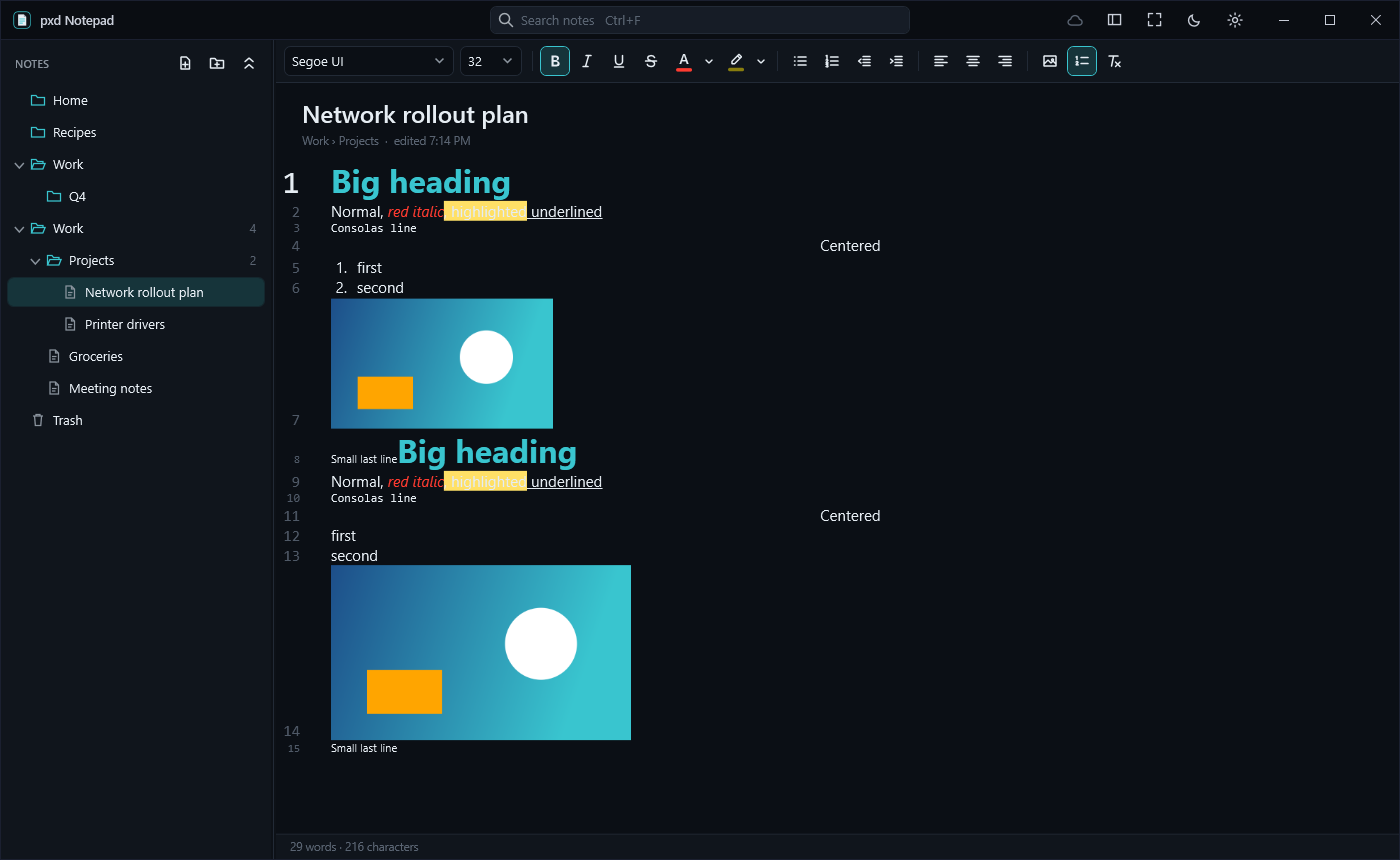
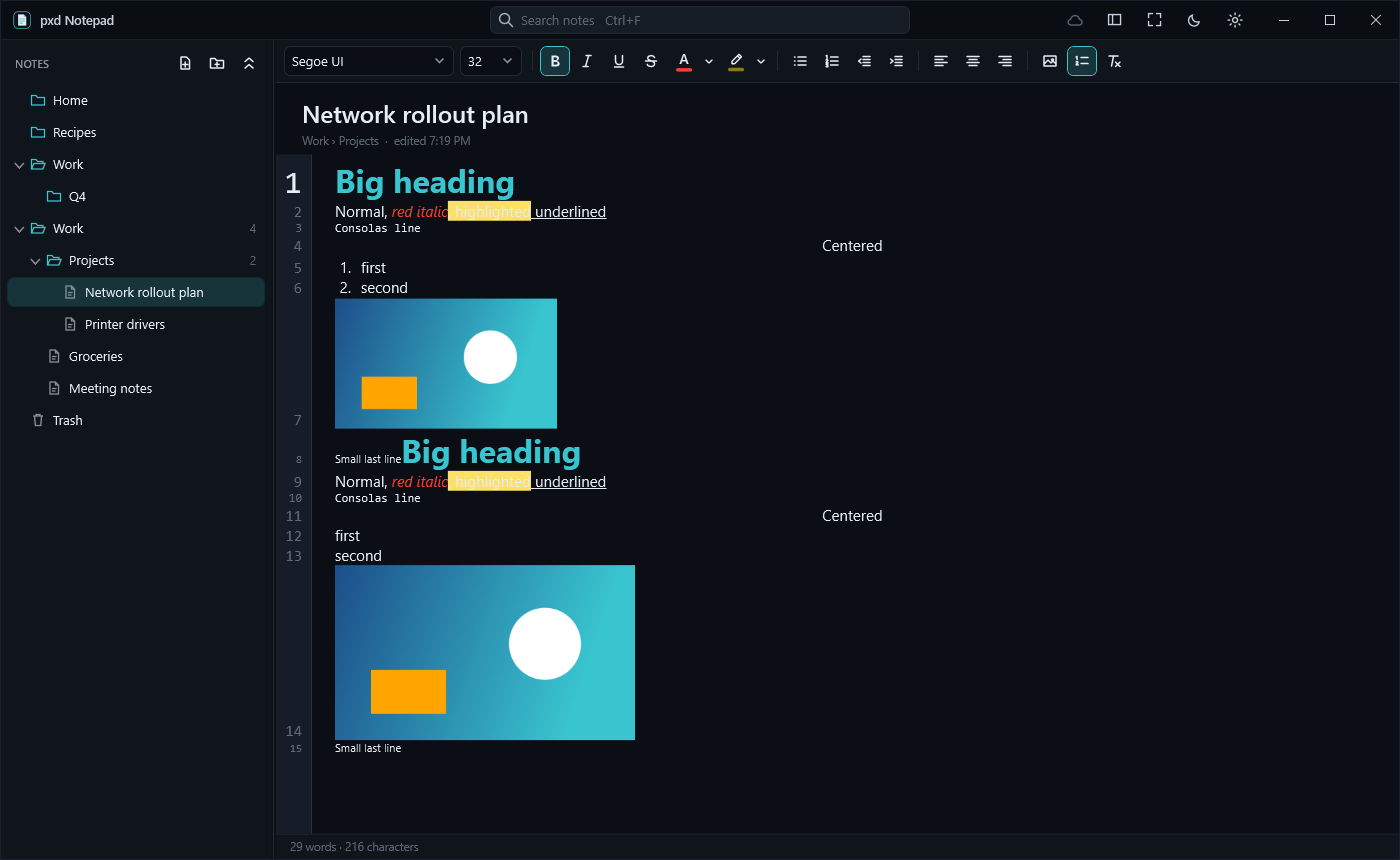
1.1.1: line numbers get their own shaded strip with an edge line (dark and light)

diff --git a/Themes/Dark.xaml b/Themes/Dark.xaml
@@ -12,7 +12,9 @@
     <SolidColorBrush x:Key="Text" Color="#E6EDF3"/>
     <SolidColorBrush x:Key="Dim" Color="#8B949E"/>
     <SolidColorBrush x:Key="Faint" Color="#5A6472"/>
-    <SolidColorBrush x:Key="GutterText" Color="#4F5967"/>
+    <SolidColorBrush x:Key="GutterText" Color="#5F6A79"/>
+    <SolidColorBrush x:Key="GutterBg" Color="#161D28"/>
+    <SolidColorBrush x:Key="GutterLine" Color="#28323F"/>
     <SolidColorBrush x:Key="Accent" Color="#39C5CF"/>
     <SolidColorBrush x:Key="AccentText" Color="#001014"/>
     <SolidColorBrush x:Key="AccentSoft" Color="#1A39C5CF"/>

diff --git a/Themes/Light.xaml b/Themes/Light.xaml
@@ -11,7 +11,9 @@
     <SolidColorBrush x:Key="Text" Color="#1F2328"/>
     <SolidColorBrush x:Key="Dim" Color="#57606A"/>
     <SolidColorBrush x:Key="Faint" Color="#8C959F"/>
-    <SolidColorBrush x:Key="GutterText" Color="#A3ACB6"/>
+    <SolidColorBrush x:Key="GutterText" Color="#8C96A1"/>
+    <SolidColorBrush x:Key="GutterBg" Color="#F1F4F7"/>
+    <SolidColorBrush x:Key="GutterLine" Color="#DDE3EA"/>
     <SolidColorBrush x:Key="Accent" Color="#0E8C96"/>
     <SolidColorBrush x:Key="AccentText" Color="#FFFFFF"/>
     <SolidColorBrush x:Key="AccentSoft" Color="#1A0E8C96"/>

diff --git a/Editor/LineGutter.cs b/Editor/LineGutter.cs
@@ -162,17 +162,20 @@ public sealed class LineGutter : FrameworkElement
     protected override void OnRender(DrawingContext dc)
     {
         if (Visibility != Visibility.Visible) return;
+        // Its own shade with an edge line, so the numbers read as apart from the page.
+        dc.DrawRectangle((Brush)FindResource("GutterBg"), null, new Rect(RenderSize));
+        dc.DrawRectangle((Brush)FindResource("GutterLine"), null, new Rect(Math.Max(0, ActualWidth - 1), 0, 1, ActualHeight));
         _rtbDefault = (_rtb.Document.FontFamily, _rtb.Document.FontSize);
         var lines = VisibleLines();
         var dim = (Brush)FindResource("GutterText");
         var cur = (Brush)FindResource("Text");
-        var need = 20.0;
+        var need = 26.0;
         var texts = new List<(FormattedText Text, Line Line)>(lines.Count);
         foreach (var l in lines)
         {
             var ft = new FormattedText(l.Number.ToString(CultureInfo.InvariantCulture), CultureInfo.InvariantCulture, FlowDirection.LeftToRight, Face, l.Size, l.Current ? cur : dim, _dpi);
             texts.Add((ft, l));
-            need = Math.Max(need, ft.WidthIncludingTrailingWhitespace + 14);
+            need = Math.Max(need, ft.WidthIncludingTrailingWhitespace + 18);
         }
         need = Math.Ceiling(need);
         // Grows at once; shrinks only when clearly too wide, so it doesn't twitch while scrolling.
@@ -182,6 +185,6 @@ public sealed class LineGutter : FrameworkElement
             return;   // re-rendered at the new width
         }
         foreach (var (ft, l) in texts)
-            dc.DrawText(ft, new Point(Width - 8 - ft.WidthIncludingTrailingWhitespace, l.Baseline - ft.Baseline));
+            dc.DrawText(ft, new Point(Width - 10 - ft.WidthIncludingTrailingWhitespace, l.Baseline - ft.Baseline));
     }
 }
